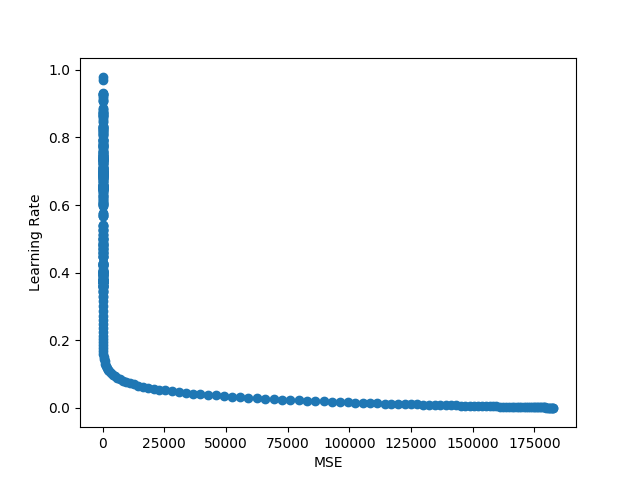
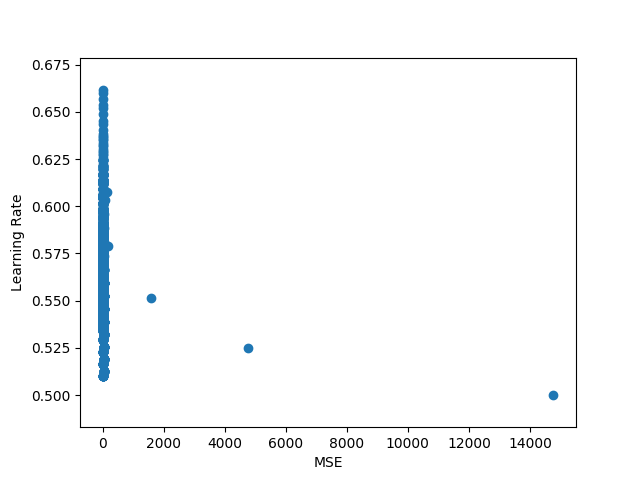
Working on Logistic Regression

diff --git a/samples/logistic-regression.ts b/samples/logistic-regression.ts
@@ -1,0 +1,107 @@
+require( '@tensorflow/tfjs-node' );
+
+export class LogisticRegression {
+
+}
+
+// import { Tensor, zeros, moments } from '@tensorflow/tfjs';
+// import * as plot from 'node-remote-plot';
+
+// export class LinearRegression {
+
+// 	public weights: Tensor;
+// 	private sampleSize = 0;
+// 	private numberOfFeatures = 0;
+// 	private mean: Tensor;
+// 	private stddev: Tensor;
+// 	private msePrev = 0;
+// 	private mseCurr = 0;
+// 	private mseHistory = [];
+// 	private learningRateHistory = [];
+
+// 	private features: Tensor;
+
+// 	constructor( features: Tensor, private labels: Tensor, private options: LinearRegressionOptions = {} ) {
+// 		this.prepareFeatures( features ).then( result => { this.features = result; } );
+// 		this.options = { learningRate: 0.1, maxIterations: 1000, ...options };
+// 		this.sampleSize = features.shape[0];
+// 		this.numberOfFeatures = features.shape[1];
+// 		this.weights = zeros( [this.numberOfFeatures, 1] );
+// 	}
+
+// 	private prepareFeatures = async ( f: Tensor, shouldSet = false ) => {
+// 		if ( !this.mean ) {
+// 			const { mean, variance } = await moments( f, 0 );
+// 			this.mean = mean;
+// 			this.stddev = variance.pow( .5 );
+// 		}
+// 		return f.sub( this.mean ).div( this.stddev );
+// 	}
+
+// 	public train = async () => {
+// 		while ( !this.features ) { await this.waiter(); }
+// 		const batchQuantity = Math.floor( this.features.shape[0] / this.options.batchSize );
+// 		for ( let i = 0; i < this.options.maxIterations; i++ ) {
+// 			for ( let j = 0; j < batchQuantity; j++ ) {
+// 				await this.gradientDescent(
+// 					this.features.slice( [j * this.options.batchSize, 0], [this.options.batchSize, -1] ), // Feature slice
+// 					this.labels.slice( [j * this.options.batchSize, 0], [this.options.batchSize, -1] ) 		// label slice
+// 				);
+// 			}
+// 		}
+// 		plot( {
+// 			x: this.mseHistory.reverse(),
+// 			y: this.learningRateHistory,
+// 			xLabel: 'MSE',
+// 			yLabel: 'Learning Rate'
+// 		} );
+// 	}
+
+// 	private waiter = ( timeout = 500 ) => {
+// 		return new Promise( ( resolve, reject ) => {
+// 			setTimeout( () => {
+// 				resolve();
+// 			}, timeout );
+// 		} );
+// 	}
+
+// 	private gradientDescent = async ( features: Tensor, labels: Tensor ) => {
+// 		const guesses = features.matMul( this.weights );
+// 		const differences = guesses.sub( labels );
+// 		const slopes = features.transpose().matMul( differences ).div( features.shape[0] ).mul( this.options.learningRate );
+// 		this.weights = this.weights.sub( slopes );
+// 		this.msePrev = this.mseCurr;
+// 		this.mseCurr = ( await differences.sum().pow( 2 ).div( differences.shape[0] ).array() ) as any;
+// 		this.mseHistory.unshift( this.mseCurr );
+// 		if ( this.mseCurr && this.msePrev ) {
+// 			if ( this.mseCurr > this.msePrev ) this.options.learningRate *= 0.95;
+// 			if ( this.mseCurr < this.msePrev ) this.options.learningRate *= 1.05;
+// 		}
+// 		this.learningRateHistory.push( this.options.learningRate );
+// 		// differences.sum().pow( 2 ).div( differences.shape[0] ).array().then( console.log );
+// 		// console.log( this.options.learningRate, this.mseCurr, this.msePrev );
+// 	}
+
+// 	public test = async ( testFeatures: Tensor, testLabels: Tensor ) => {
+// 		testFeatures = await this.prepareFeatures( testFeatures );
+// 		// this.weights.print();
+// 		// testLabels.print();
+// 		// testFeatures.matMul( this.weights ).print();
+// 		// testFeatures.print();
+// 		const sstot = ( await testLabels.sub( testLabels.mean() ).pow( 2 ).sum().array() as number );
+// 		const ssres = ( await testLabels.sub( testFeatures.matMul( this.weights ) ).pow( 2 ).sum().array() as number );
+// 		console.log( ssres, 'vs', sstot );
+// 		const rSquared = 1 - ssres / sstot;
+// 		return rSquared;
+// 	}
+
+// 	public predict = ( observation: Tensor ): Tensor => {
+// 		return observation.matMul( this.weights );
+// 	}
+// }
+
+// export interface LinearRegressionOptions {
+// 	maxIterations?: number,
+// 	learningRate?: number,
+// 	batchSize?: number
+// }

diff --git a/samples/car-emission.ts b/samples/car-emission.ts
@@ -1,0 +1,89 @@
+require( '@tensorflow/tfjs-node' );
+import * as tf from '@tensorflow/tfjs';
+import { readCSV } from "../utilities/readcsv";
+import { splitDataSet } from "../utilities/splitter";
+
+// import * as _ from 'lodash';
+// import { tensor, onesLike, ones, memory, moments, tensor2d, sequential, layers, losses, Tensor2D } from '@tensorflow/tfjs';
+
+const init = async () => {
+	console.clear();
+	console.log( '=== We are starting Logistic Regression' );
+	const rawDataSet = await readCSV( './datafiles/cars.csv' );
+	const dataSet = rawDataSet.map( d => ( {
+		weight: parseFloat( d.weight ),
+		displacement: parseFloat( d.displacement ),
+		horsepower: parseFloat( d.horsepower ),
+		passed: d.passedemissions === 'TRUE' ? 1 : 0
+	} ) );
+	// dataSet.forEach( rds => console.log( rds ) );
+	const [testSet, trainingSet] = splitDataSet( dataSet, 13 );
+	console.log( '--- Size of the main data set:', dataSet.length );
+	console.log( '--- Size of the training data set:', trainingSet.length );
+	console.log( '--- Size of the test data set:', testSet.length );
+	console.log( '--- We are trying to calculate if the emission test is passed' );
+}
+
+init();
+
+
+// const initTF = async () => {
+// 	const rawDataSet = await readCSV( './datafiles/cars.csv' );
+// 	const dataSet = rawDataSet.map( d => ( {
+// 		horsepower: parseFloat( d.horsepower ),
+// 		weight: parseFloat( d.weight ),
+// 		displacement: parseFloat( d.displacement ),
+// 		// acceleration: parseFloat( d.acceleration ),
+// 		mpg: parseFloat( d.mpg )
+// 	} ) );
+// 	// console.log( dataSet );
+
+
+// 	console.log( '--- Size of the main data set:', dataSet.length );
+// 	console.log( '--- We are trying to calculate MPG as a function of Horsepower ---' );
+// 	console.log( '--- MPG = m * HP + b' );
+// 	// console.log( dataSet.map( d => [d.horsepower, d.weight, d.displacement] ) );
+// 	// console.log( dataSet );
+// 	// console.log( dataSet.map( d => d.mpg ) );
+
+// 	// const xs = tensor2d( [1, 2, 3, 4, 5], [5, 1] );
+// 	prexs = tensor2d( dataSet.map( d => [d.horsepower, d.weight, d.displacement] ), [dataSet.length, 3] );
+// 	// const ys = tensor2d( [10, 20, 30, 40, 50], [5, 1] );
+// 	const ys = tensor2d( dataSet.map( d => d.mpg ), [dataSet.length, 1] );
+
+// 	const { mean, variance } = await moments( prexs, 0 );
+// 	tmean = mean;
+// 	tstddev = variance.pow( .5 );
+// 	xs = prexs.sub( mean ).div( tstddev );
+
+// 	await model.add( layers.dense( { units: 1, inputShape: [3] } ) );
+// 	await model.compile( {
+// 		loss: losses.meanSquaredError,
+// 		optimizer: 'sgd'
+// 	} );
+// 	const history = await model.fit( xs, ys, { epochs: 128, verbose: 0 } );
+// }
+
+// const predict = async ( n: Tensor2D ) => {
+// 	console.log( 'We are predicting:' );
+// 	const newN = n.sub( tmean ).div( tstddev );
+// 	xs.print();
+// 	prexs.print();
+// 	n.print();
+// 	newN.print();
+// 	tmean.print();
+// 	tstddev.print();
+// 	console.log( model.predict( newN ).toString() );
+// 	// return model.predict( tensor2d( [n], [1, 1] ) );
+// }
+
+
+// const doAll = async () => {
+// 	await initTF();
+// 	console.log( 'Init finished' );
+// 	predict( tensor2d( [88, 1.1395, 97], [1, 3] ) );
+// }
+
+// console.clear();
+
+// doAll();

diff --git a/samples/house.price.regression.02.ts b/samples/house.price.regression.02.ts
@@ -1,0 +1,72 @@
+require( '@tensorflow/tfjs-node' );
+import { readCSV } from "../utilities/readcsv";
+import * as _ from 'lodash';
+import { tensor, onesLike, ones, memory, moments, tensor2d, sequential, layers, losses, Tensor2D } from '@tensorflow/tfjs';
+
+let tfinterface;
+const model = sequential();
+let tmean;
+let tstddev;
+let xs;
+let prexs;
+
+const initTF = async () => {
+	const rawDataSet = await readCSV( './datafiles/cars.csv' );
+	const dataSet = rawDataSet.map( d => ( {
+		horsepower: parseFloat( d.horsepower ),
+		weight: parseFloat( d.weight ),
+		displacement: parseFloat( d.displacement ),
+		// acceleration: parseFloat( d.acceleration ),
+		mpg: parseFloat( d.mpg )
+	} ) );
+	// console.log( dataSet );
+
+
+	console.log( '--- Size of the main data set:', dataSet.length );
+	console.log( '--- We are trying to calculate MPG as a function of Horsepower ---' );
+	console.log( '--- MPG = m * HP + b' );
+	// console.log( dataSet.map( d => [d.horsepower, d.weight, d.displacement] ) );
+	// console.log( dataSet );
+	// console.log( dataSet.map( d => d.mpg ) );
+
+	// const xs = tensor2d( [1, 2, 3, 4, 5], [5, 1] );
+	prexs = tensor2d( dataSet.map( d => [d.horsepower, d.weight, d.displacement] ), [dataSet.length, 3] );
+	// const ys = tensor2d( [10, 20, 30, 40, 50], [5, 1] );
+	const ys = tensor2d( dataSet.map( d => d.mpg ), [dataSet.length, 1] );
+
+	const { mean, variance } = await moments( prexs, 0 );
+	tmean = mean;
+	tstddev = variance.pow( .5 );
+	xs = prexs.sub( mean ).div( tstddev );
+
+	await model.add( layers.dense( { units: 1, inputShape: [3] } ) );
+	await model.compile( {
+		loss: losses.meanSquaredError,
+		optimizer: 'sgd'
+	} );
+	const history = await model.fit( xs, ys, { epochs: 128, verbose: 0 } );
+}
+
+const predict = async ( n: Tensor2D ) => {
+	console.log( 'We are predicting:' );
+	const newN = n.sub( tmean ).div( tstddev );
+	xs.print();
+	prexs.print();
+	n.print();
+	newN.print();
+	tmean.print();
+	tstddev.print();
+	console.log( model.predict( newN ).toString() );
+	// return model.predict( tensor2d( [n], [1, 1] ) );
+}
+
+
+const doAll = async () => {
+	await initTF();
+	console.log( 'Init finished' );
+	predict( tensor2d( [88, 1.1395, 97], [1, 3] ) );
+}
+
+console.clear();
+
+doAll();

diff --git a/samples/linear-regression.ts b/samples/linear-regression.ts
@@ -34,9 +34,14 @@ export class LinearRegression {
 
 	public train = async () => {
 		while ( !this.features ) { await this.waiter(); }
-		// this.features.print();
+		const batchQuantity = Math.floor( this.features.shape[0] / this.options.batchSize );
 		for ( let i = 0; i < this.options.maxIterations; i++ ) {
-			await this.gradientDescent();
+			for ( let j = 0; j < batchQuantity; j++ ) {
+				await this.gradientDescent(
+					this.features.slice( [j * this.options.batchSize, 0], [this.options.batchSize, -1] ), // Feature slice
+					this.labels.slice( [j * this.options.batchSize, 0], [this.options.batchSize, -1] ) 		// label slice
+				);
+			}
 		}
 		plot( {
 			x: this.mseHistory.reverse(),
@@ -79,13 +84,18 @@ export class LinearRegression {
 		// testFeatures.print();
 		const sstot = ( await testLabels.sub( testLabels.mean() ).pow( 2 ).sum().array() as number );
 		const ssres = ( await testLabels.sub( testFeatures.matMul( this.weights ) ).pow( 2 ).sum().array() as number );
-		// console.log( ssres, 'vs', sstot );
+		console.log( ssres, 'vs', sstot );
 		const rSquared = 1 - ssres / sstot;
 		return rSquared;
+	}
+
+	public predict = ( observation: Tensor ): Tensor => {
+		return observation.matMul( this.weights );
 	}
 }
 
 export interface LinearRegressionOptions {
 	maxIterations?: number,
-	learningRate?: number
+	learningRate?: number,
+	batchSize?: number
 }

diff --git a/samples/house.price.regression.01.ts b/samples/house.price.regression.01.ts
@@ -1,7 +1,7 @@
 require( '@tensorflow/tfjs-node' );
 import { readCSV } from "../utilities/readcsv";
 import * as _ from 'lodash';
-import { tensor, onesLike, ones, memory, moments } from '@tensorflow/tfjs';
+import { tensor, tensor2d, onesLike, ones, memory, moments } from '@tensorflow/tfjs';
 import { LinearRegression } from './linear-regression';
 
 console.clear();
@@ -40,11 +40,15 @@ const run = async () => {
 	const testLabels = tensor( testSet.map( t => [t.mpg] ) );
 	// // ones( [features.shape[0], 1] ).concat( features, 1 ).print();
 
-	const regression = new LinearRegression( features, labels, { learningRate: .001, maxIterations: 1000 } );
+	const regression = new LinearRegression( features, labels, { learningRate: .5, maxIterations: 128, batchSize: 32 } );
 	await regression.train();
 	regression.weights.print();
 	// await testFeatures.matMul( regression.weights ).sub( testLabels ).array().then( console.log );
 	console.log( 'R2:', await regression.test( testFeatures, testLabels ) );
+	console.log( 'Infering:' );
+	console.log( ( await tensor2d( [1, 88, 1.1395, 97], [1, 4] ).array() )[0] );
+	regression.predict( tensor2d( [1, 88, 1.1395, 97], [1, 4] ) ).print();
+	// features.slice( 0, 1 ).print();
 }
 
 

diff --git a/utilities/splitter.ts b/utilities/splitter.ts
@@ -1,0 +1,7 @@
+import * as _ from 'lodash';
+
+export const splitDataSet = ( dataSet: any[], testSizePercentage: number ) => {
+	const testSize = Math.floor( dataSet.length * testSizePercentage / 100 );
+	const shuffled = _.shuffle( dataSet );
+	return [shuffled.slice( 0, testSize ), shuffled.slice( testSize )];
+}
